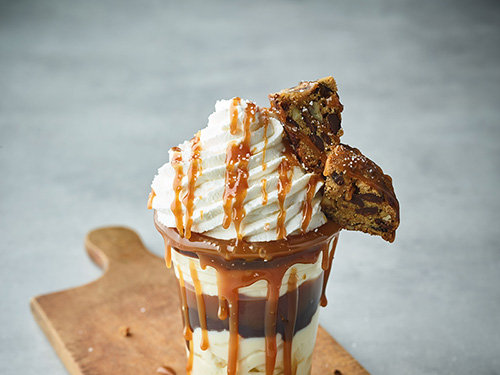
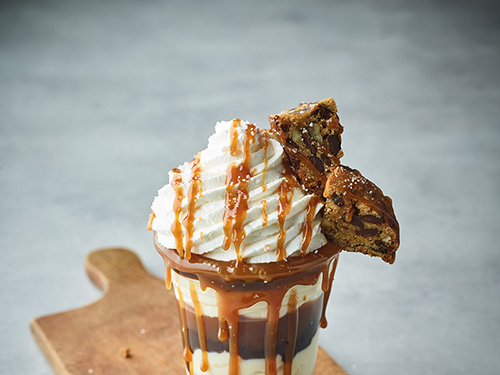
crop sundae images

diff --git a/pages/mainMenu/menuCategories/dessertsAndBeverages/oreoAndToastedPecanSundae.html b/pages/mainMenu/menuCategories/dessertsAndBeverages/oreoAndToastedPecanSundae.html
@@ -104,10 +104,10 @@
   <div class="container-fluid mt-0 p-3 pt-4">
         <!-- Responsive pictures -->
         <picture>
-            <source srcset="/ag3.0/assets/foodImages/productImages/desktop/dessertsAndBeverages/oreoAndToastedPecanSundaeDesktop.png" media="(min-width: 1600px)">
-            <source srcset="/ag3.0/assets/foodImages/productImages/desktop/dessertsAndBeverages/oreoAndToastedPecanSundaeTablet.png" media="(min-width: 768px)">
+            <source srcset="/ag3.0/assets/foodImages/productImages/desktop/dessertsAndBeverages/oreoAndToastedPecanSundaeDesktop.jpg" media="(min-width: 1600px)">
+            <source srcset="/ag3.0/assets/foodImages/productImages/desktop/dessertsAndBeverages/oreoAndToastedPecanSundaeTablet.jpg" media="(min-width: 768px)">
             <!-- The <img /> is the fall back for non browser compatible w/ picture tag and mobile version.  -->
-            <img class="m-auto product-image" src="/ag3.0/assets/foodImages/productImages/mobile/dessertsAndBeverages/oreoAndToastedPecanSundaeMobile.png" alt="">
+            <img class="m-auto product-image" src="/ag3.0/assets/foodImages/productImages/mobile/dessertsAndBeverages/oreoAndToastedPecanSundaeMobile.jpg" alt="">
         </picture>
         <h1 class="pdp-header text-left text-md-center">Oreo® & Toasted Pecan Sundae</h1>
         <div class="product-content-wrapper">

diff --git a/pages/mainMenu/menuCategories/dessertsAndBeverages.html b/pages/mainMenu/menuCategories/dessertsAndBeverages.html
@@ -160,7 +160,7 @@
                             <h3 class="mb-0 primary-subheading small-subheading">Oreo® & Toasted Pecan Sundae</h3>
                         </div>
                         <div>
-                            <img class="w-100 h-100 subheading-img" src="/ag3.0/assets/foodImages/productImages/desktop/dessertsAndBeverages/oreoAndToastedPecanSundaeTablet.png" alt="" />
+                            <img class="w-100 h-100 subheading-img" src="/ag3.0/assets/foodImages/productImages/desktop/dessertsAndBeverages/oreoAndToastedPecanSundaeTablet.jpg" alt="" />
                         </div>
                         <div class="pt-3 product-content-wrapper">
                             <p class="product-description">Creamy custard, crumbled Oreo's, toasted pecans, rich chocolate sauce, whipped cream, and chocolate shavings.

diff --git a/index.html b/index.html
@@ -246,8 +246,8 @@
                         </div>
                         <div>   
                             <picture>
-                                <source srcset="assets/foodImages/categoryImages/desktop/oreoCookieSundae500x375.png" media="(min-width: 768px)">
-                                <img class="w-100 menu-item-img" src="assets/foodImages/categoryImages/mobile/oreoCookieSundae345x260.png" alt="" />
+                                <source srcset="assets/foodImages/categoryImages/desktop/oreoAndToastedPecanSundaeTablet.jpg" media="(min-width: 768px)">
+                                <img class="w-100 menu-item-img" src="assets/foodImages/categoryImages/mobile/oreoAndToastedPecanSundaeMobile.jpg" alt="" />
                             </picture>
                         </div>
                     </a>

diff --git a/pages/mainMenu/menuCategory.html b/pages/mainMenu/menuCategory.html
@@ -175,7 +175,7 @@
                         <h2 class="mb-0 primary-subheading">Desserts & Beverages</h2>
                     </div>
                     <div>
-                        <img class="w-100 subheading-img" src="/ag3.0/assets/foodImages/categoryImages/mobile/oreoCookieSundae345x260.png" alt="" />
+                        <img class="w-100 subheading-img" src="/ag3.0/assets/foodImages/categoryImages/mobile/oreoAndToastedPecanSundaeMobile.jpg" alt="" />
                     </div>
                 </a>
             </div>
